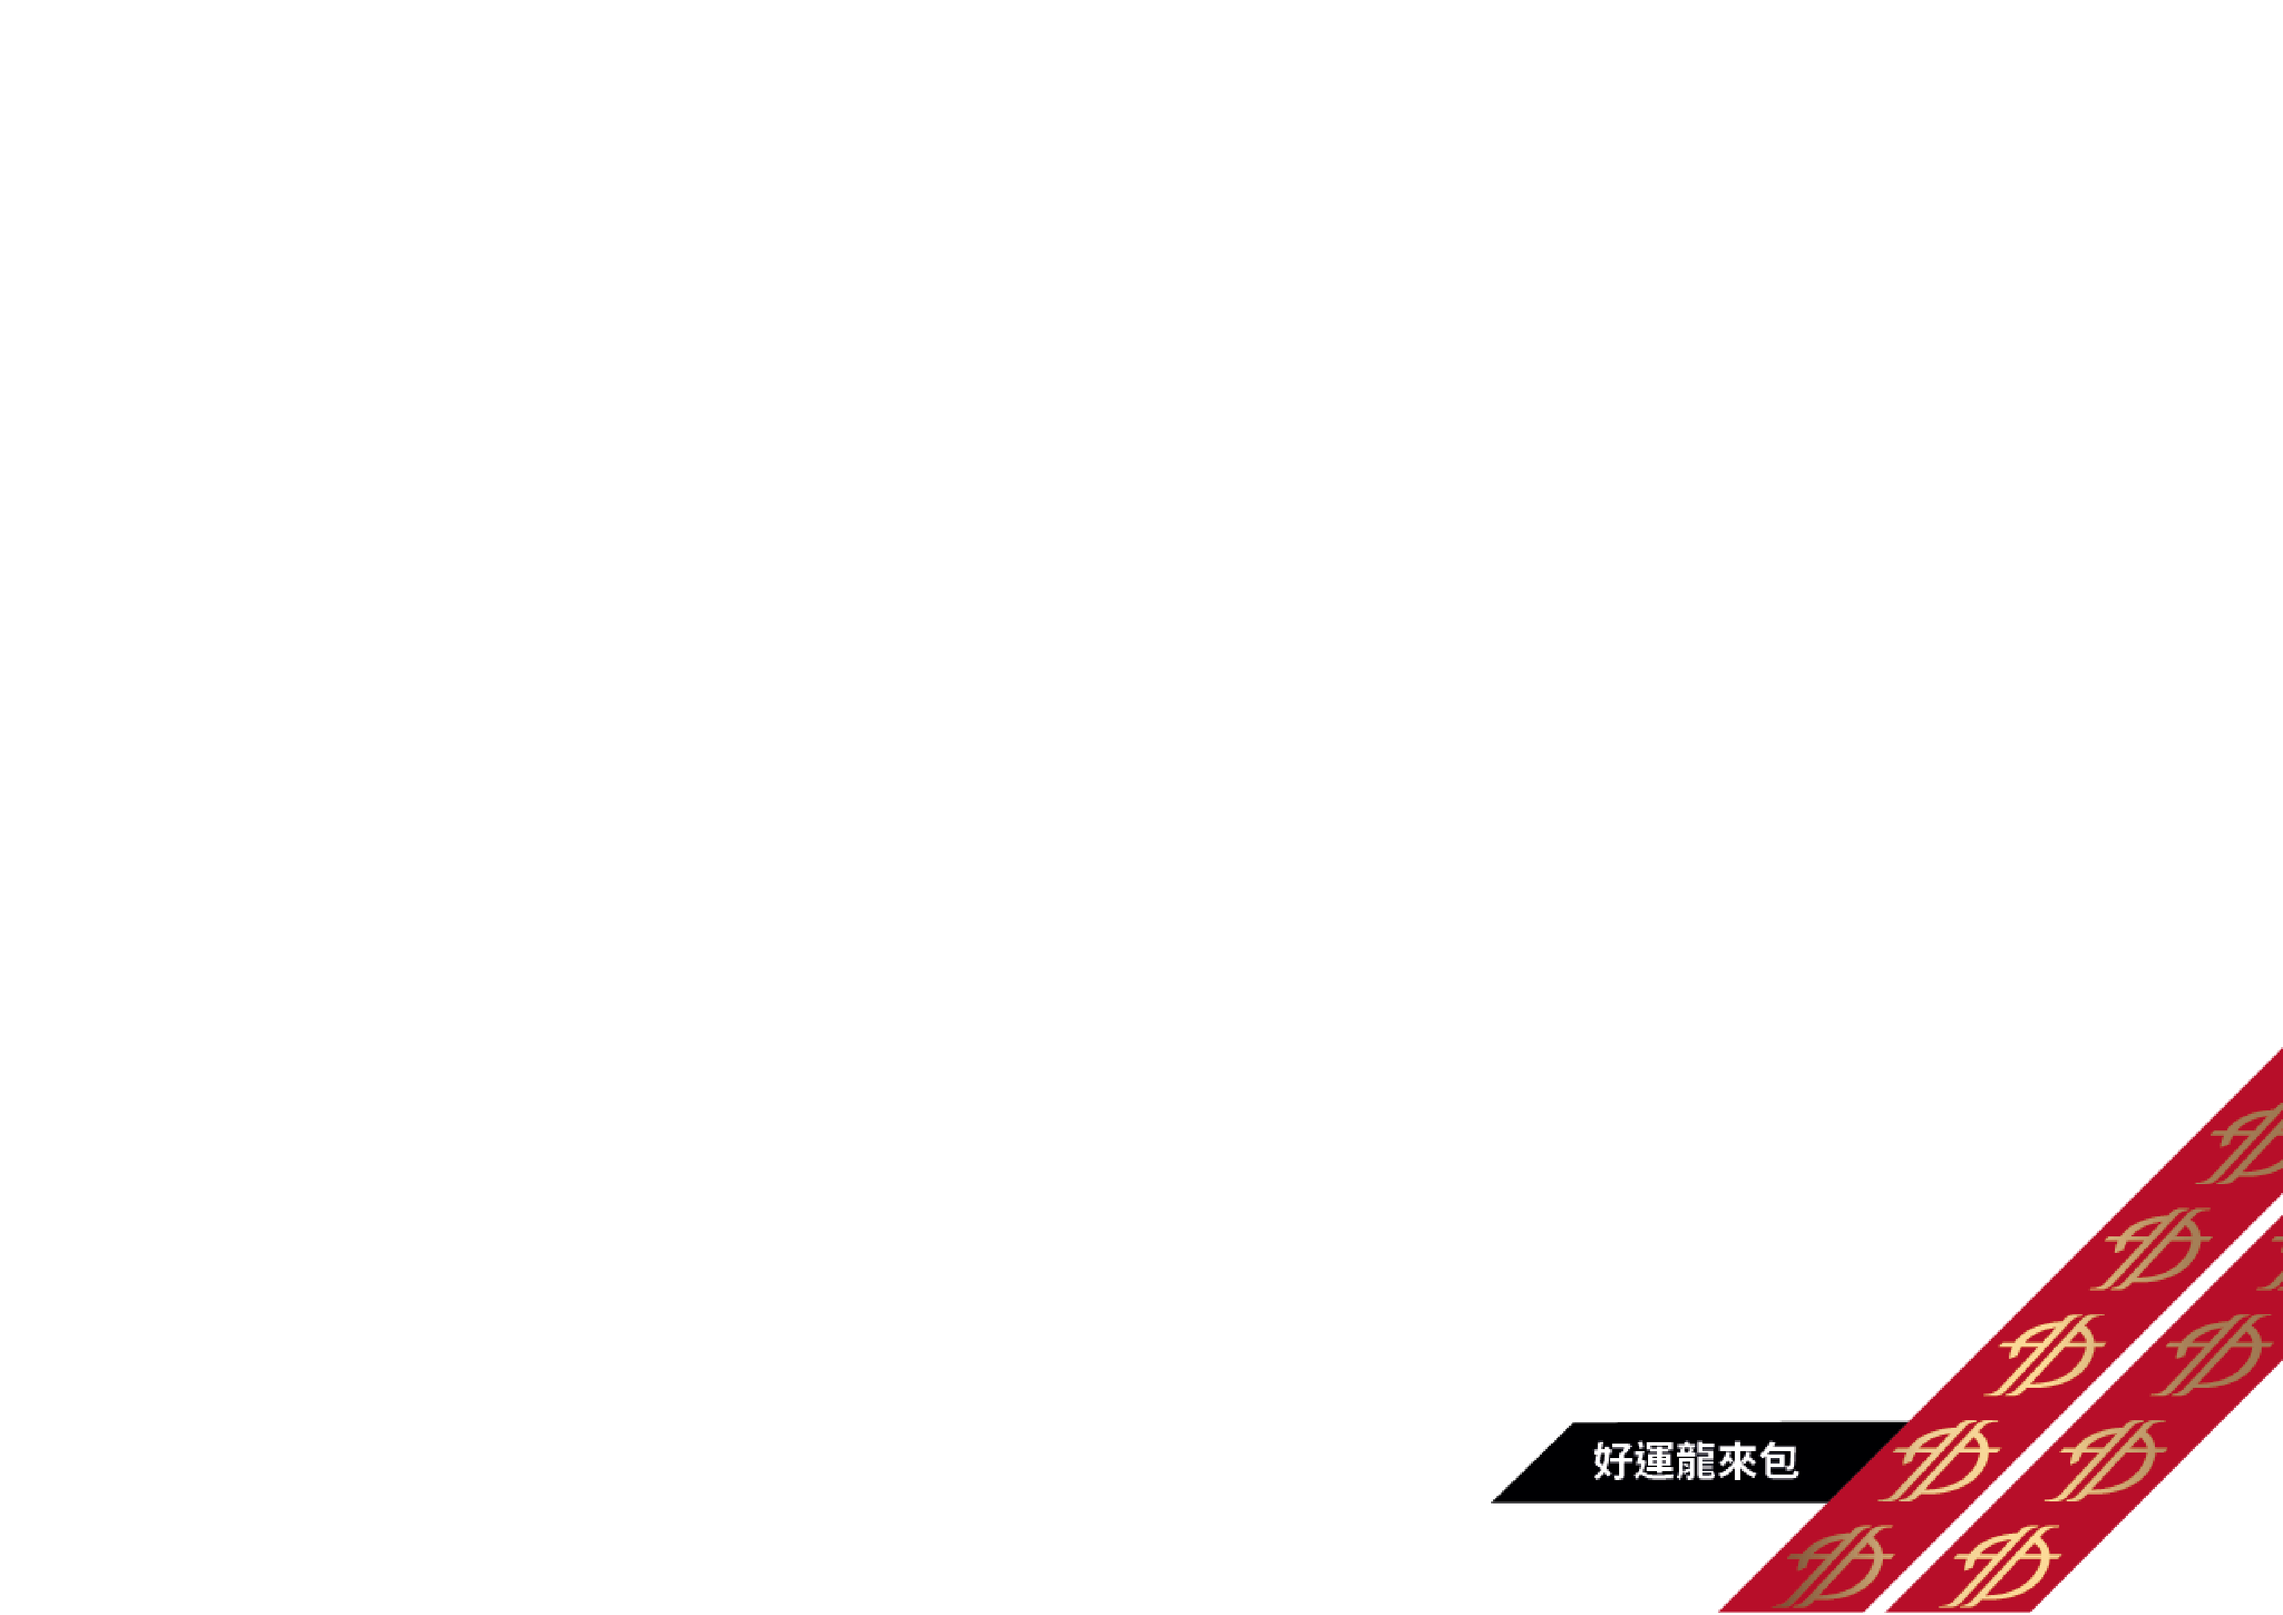
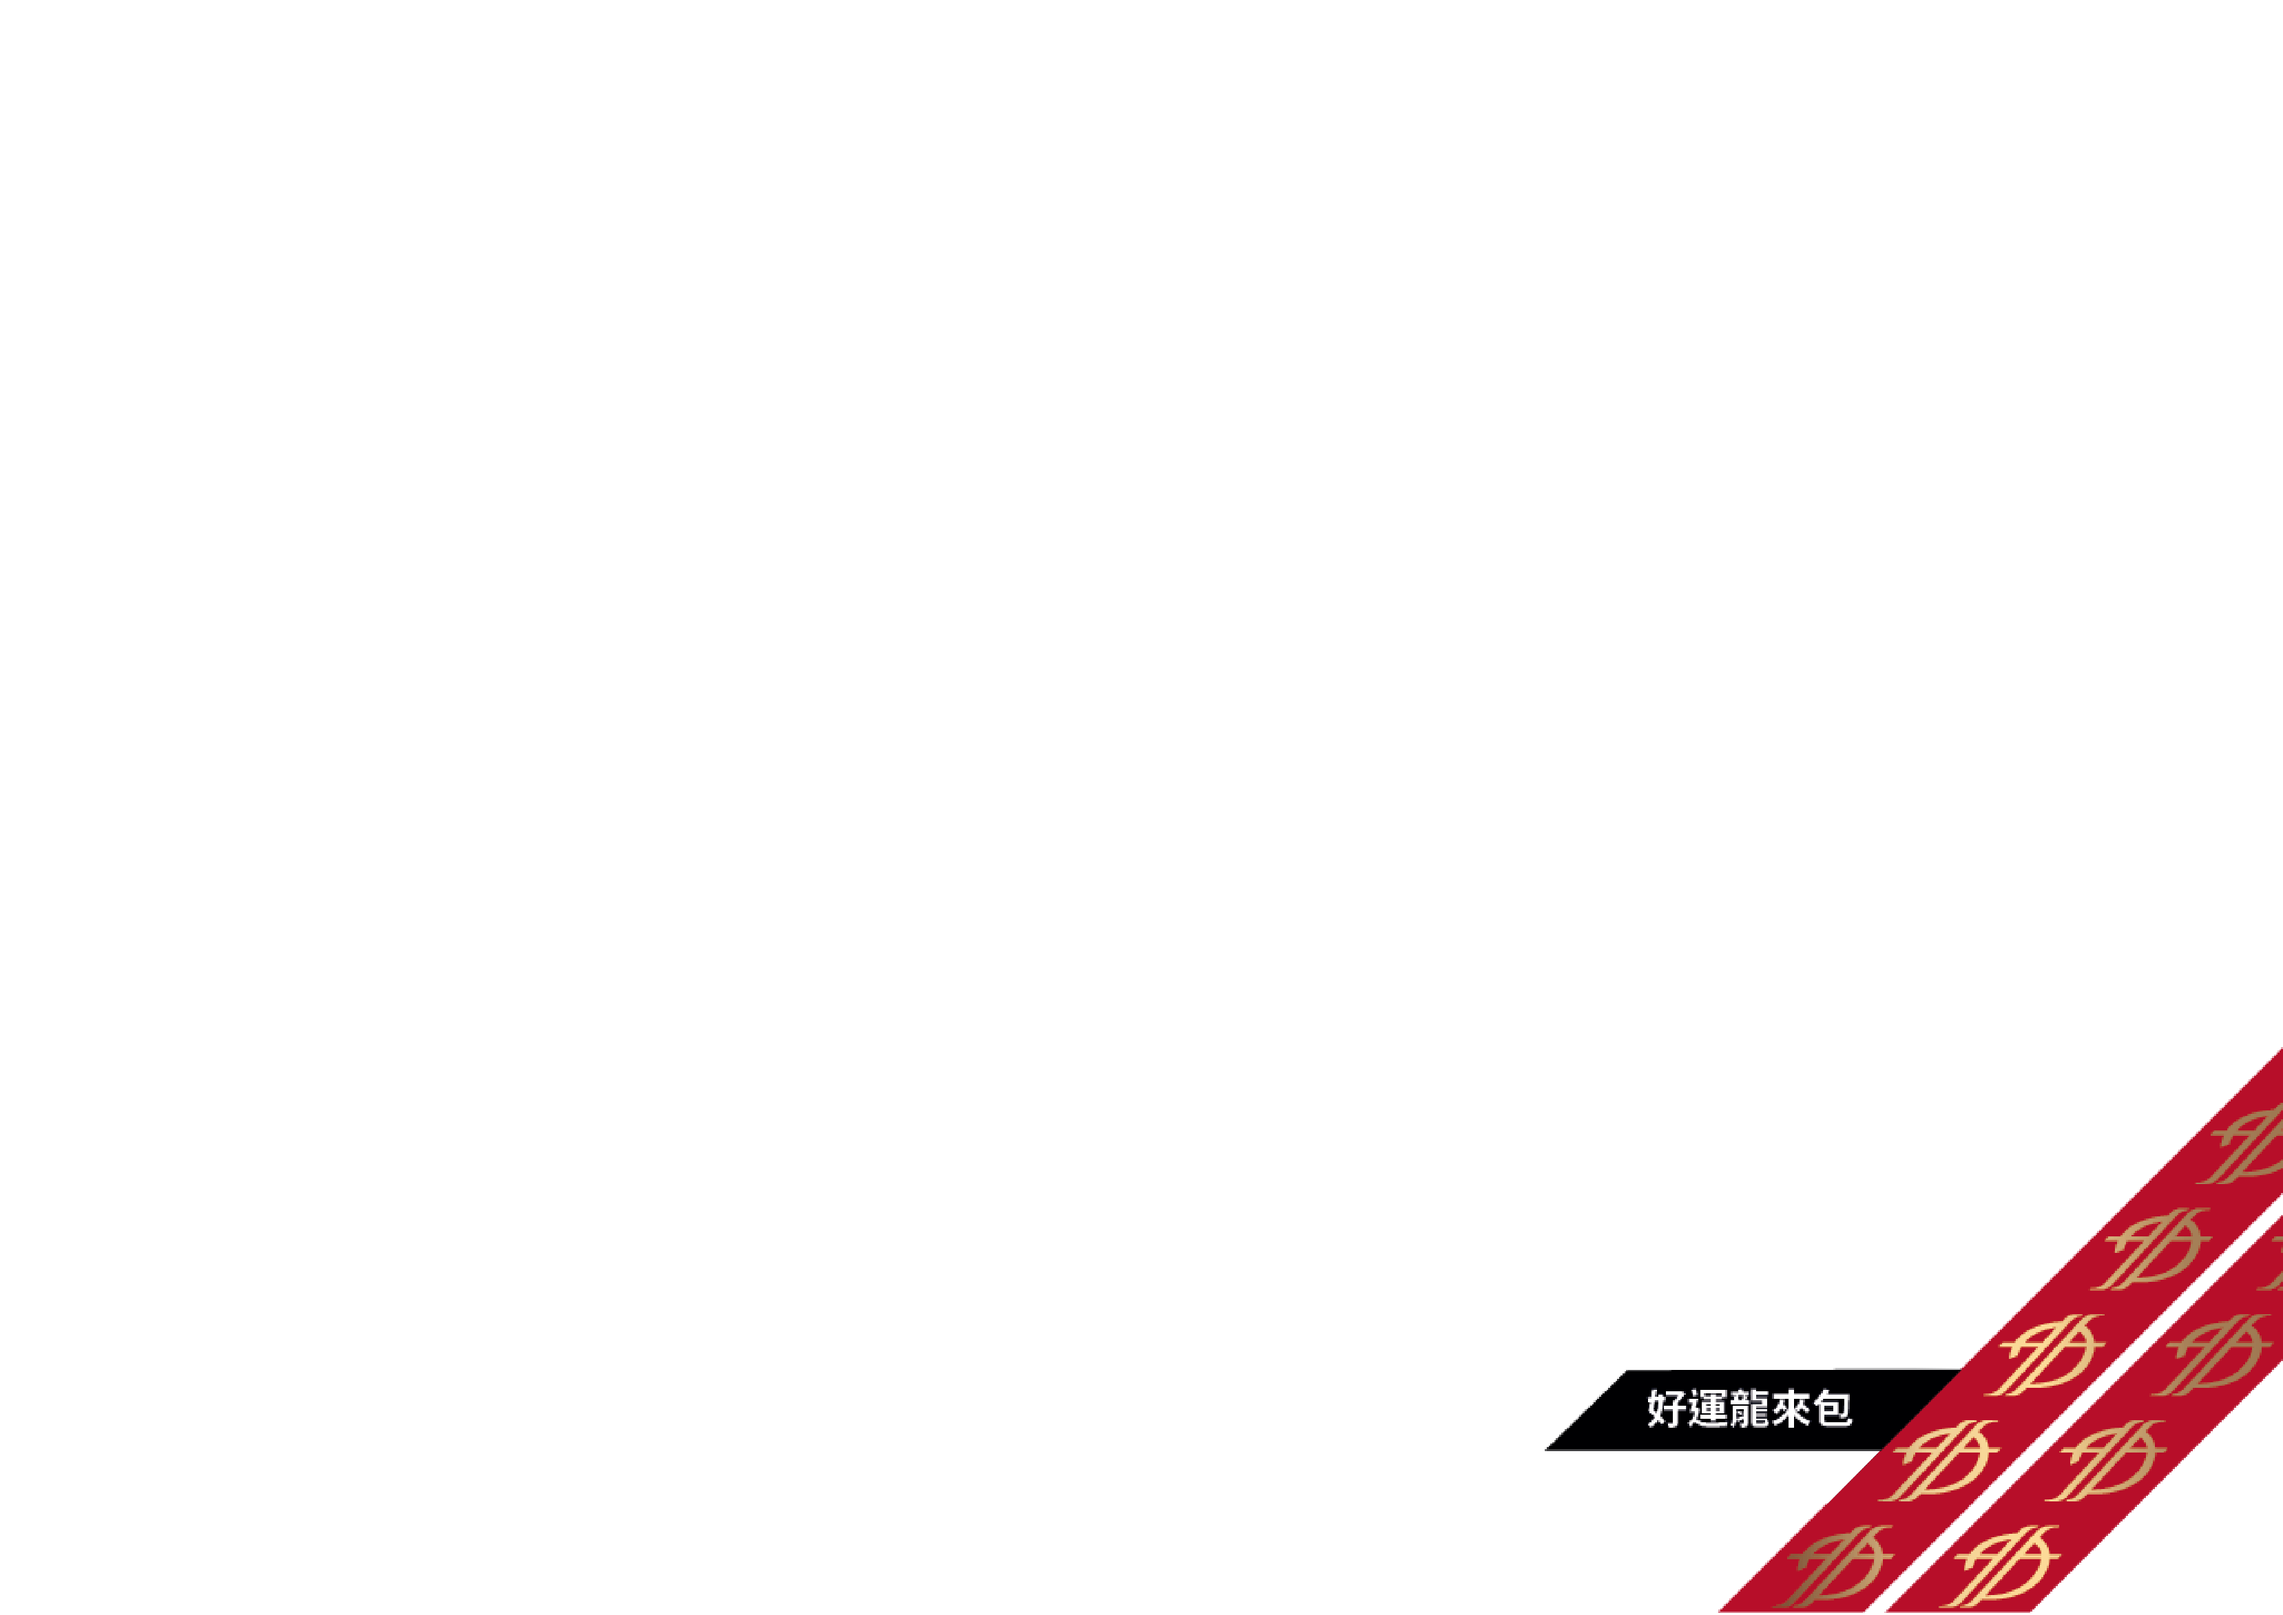
[modify] image change

Changed region(s): [[0.6525, 0.8402, 0.87, 0.9335]]

diff --git a/docs/sw.js b/docs/sw.js
@@ -1,1 +1,1 @@
-if(!self.define){let e,i={};const s=(s,a)=>(s=new URL(s+".js",a).href,i[s]||new Promise((i=>{if("document"in self){const e=document.createElement("script");e.src=s,e.onload=i,document.head.appendChild(e)}else e=s,importScripts(s),i()})).then((()=>{let e=i[s];if(!e)throw new Error(`Module ${s} didn’t register its module`);return e})));self.define=(a,n)=>{const c=e||("document"in self?document.currentScript.src:"")||location.href;if(i[c])return;let r={};const d=e=>s(e,c),o={module:{uri:c},exports:r,require:d};i[c]=Promise.all(a.map((e=>o[e]||d(e)))).then((e=>(n(...e),r)))}}define(["./workbox-fa446783"],(function(e){"use strict";self.skipWaiting(),e.clientsClaim(),e.precacheAndRoute([{url:"assets/index-d58fc353.css",revision:null},{url:"assets/index-d8b9e818.js",revision:null},{url:"index.html",revision:"6c3b351a77d9c6fe3616544a56442352"},{url:"registerSW.js",revision:"1872c500de691dce40960bb85481de07"},{url:"audio-speaker-off.png",revision:"e46a88ab8493f86764cbe64dd250adf5"},{url:"audio-speaker-on.png",revision:"0f68480c86cd9569a7bd660ea0b1abb1"},{url:"bg.mp3",revision:"1939fe9c9d71e53d960f581d068bd9ed"},{url:"pwa-logo.png",revision:"ecc5baf4ff30ede170fc950900658b74"},{url:"img/icons/android-chrome-192x192.png",revision:"3ef4a95391ff2bfd5f442ea89292b3fa"},{url:"img/icons/android-chrome-512x512.png",revision:"4fd10861636b509a53d091e1c6cd8f64"},{url:"img/icons/android-chrome-maskable-192x192.png",revision:"3ef4a95391ff2bfd5f442ea89292b3fa"},{url:"img/icons/android-chrome-maskable-512x512.png",revision:"4fd10861636b509a53d091e1c6cd8f64"},{url:"img/icons/apple-touch-icon-120x120.png",revision:"c24de0bfa43e42fd8568d1b38262c4c3"},{url:"img/icons/apple-touch-icon-152x152.png",revision:"de8e6c5c1e047c79711200a9529be00e"},{url:"img/icons/apple-touch-icon-180x180.png",revision:"f66b5015d880335cb607d474025316e8"},{url:"img/icons/apple-touch-icon-60x60.png",revision:"91035985e360cd3b9e443066bccdc53a"},{url:"img/icons/apple-touch-icon-76x76.png",revision:"c14d8293625bbec500e0e9dec5848336"},{url:"img/icons/apple-touch-icon.png",revision:"f66b5015d880335cb607d474025316e8"},{url:"img/icons/favicon-16x16.png",revision:"49610a9d0e3026ebfaec1aa32f22b67f"},{url:"img/icons/favicon-32x32.png",revision:"e3c7c3355821030a05ac1e54e105e973"},{url:"img/icons/msapplication-icon-144x144.png",revision:"4db12ddb2969ae559fe8cc63810e7747"},{url:"img/icons/mstile-150x150.png",revision:"8bf70c634505b233c8b293cf3a749278"},{url:"img/icons/safari-pinned-tab.svg",revision:"86b564b18ea6c7e170fa6cb87ca03bcf"},{url:"assets/img/12_14_finished.png",revision:"4fa3be04f2ef9fd346e10b693486beb4"},{url:"assets/img/ball_light.png",revision:"318ced0bcbdcb54ae0b6b6e7d6fbd11c"},{url:"assets/img/black_bg.png",revision:"2c019e9e6bccf9f989349f8b4902df4d"},{url:"assets/img/charm.png",revision:"291697df1759d9147905542a96682f9f"},{url:"assets/img/charm_bg.png",revision:"8cbacc76583d1c30f68951fdd04853a2"},{url:"assets/img/charm_shadow.png",revision:"86b80104720873d004d1647e19a723f3"},{url:"assets/img/dragon_right_big.png",revision:"b00c0880edc5c3e8a096498300872744"},{url:"assets/img/dragon_right_small.png",revision:"377f2d2133d2222ca1dd89c3cfa2467d"},{url:"assets/img/final_bg.png",revision:"ab5476baea71c368e4ec9de249ab1716"},{url:"assets/img/final_bg_belt.png",revision:"86719737aaca2f1a20e1e9bef68a3c33"},{url:"assets/img/final_bg_red_belt.png",revision:"b7f31afada1dadb7ab8eec7460bea00c"},{url:"assets/img/game_ball.png",revision:"deae6db0f7233ab3299a7c1adbca2372"},{url:"assets/img/game_ball_cloud.png",revision:"5c66e37a987089a9a03389eccf4bf39a"},{url:"assets/img/game_ball_infinite.png",revision:"614fcf8c71d3c3f0af983a627f8ac3fb"},{url:"assets/img/game_ball_shadow.png",revision:"b17948b75895a592e0e9c6365beca9c1"},{url:"assets/img/game_ball_star.png",revision:"adc6fa1f181f27739f247749d7174809"},{url:"assets/img/game_ball_wind.png",revision:"cc1724b3a3a0015b55884a11a5a0156b"},{url:"assets/img/game_bg.png",revision:"e5651be7be6820df0605790cf595f73d"},{url:"assets/img/game_cloud.png",revision:"d6363963899f2509a481db6c618b9ad4"},{url:"assets/img/game_count_down_1.png",revision:"31098b173c8566c6f7ace91eb4a9d05f"},{url:"assets/img/game_count_down_2.png",revision:"4fd6d3c6a62e7bfd9ae5c13058d5c640"},{url:"assets/img/game_count_down_3.png",revision:"f5cea6cd0ee93bd623e5185a77307eda"},{url:"assets/img/game_frame.png",revision:"dad05a41c3fcc42b4b9e1b7bc3909c04"},{url:"assets/img/game_header.png",revision:"76d65fadb6c3f93e7b6e2eaf1d12d68f"},{url:"assets/img/game_intro_bg.png",revision:"1cc102c7f1f418e3e3d1d65a71c6ade2"},{url:"assets/img/game_intro_subtitle.png",revision:"6b560dfd3a5266df3499d2bb69aac70f"},{url:"assets/img/game_intro_title.png",revision:"29636e169d8d7ab4561659840b557202"},{url:"assets/img/ground.png",revision:"beb0f896eaa8070143dcbf9684b046b0"},{url:"assets/img/index_title.png",revision:"bca7a3aeeaa002b2d9682c055e11e38c"},{url:"assets/img/intro_2_main.png",revision:"2916ed2cbe0614b261e6b2621affdf7f"},{url:"assets/img/intro_2_title.png",revision:"e5a29516eb7efd52bb9f2b3145807ed2"},{url:"assets/img/left_down_cloud.png",revision:"693b50022bf2beb8ea777a82b31b6114"},{url:"assets/img/logo.png",revision:"5ea8c0e167ad97e21d6dd32295f53a2a"},{url:"assets/img/logo_left_top.png",revision:"e1187098103a02edc57d259fb8c07bc9"},{url:"assets/img/main_product_full.png",revision:"07df5fb70d0a49e47ba2f67046c6562f"},{url:"assets/img/previous.png",revision:"59b3f8b0fc90b25f11c6eb26352e2d01"},{url:"assets/img/right_belt_slogan.png",revision:"c9aee68f23cc2031df39baa7293498fe"},{url:"assets/img/right_down_belt_without_slogan.png",revision:"671d6e8273c87bb5aaa11d5bde98492c"},{url:"assets/img/right_top_play_button.png",revision:"493edcbe3e0985411714da0499332b59"},{url:"assets/img/right_top_reload_button.png",revision:"9469f2e354bd4ed35dbce31801d3f9c2"},{url:"assets/img/side_dragon.png",revision:"61c84c9489e15111226ee629c50245c9"},{url:"assets/img/wave_ground.png",revision:"2e6c8f7ec31b53c681ae5e4fb721f08f"},{url:"assets/img/woman.png",revision:"251929e1491c3b4e45d4fa2d2de9072b"},{url:"assets/img/yellow_bg.png",revision:"9aee5a12e6b5cdd2dacf847ac39b736f"},{url:"manifest.webmanifest",revision:"a44d6e44fe1492ab92195f4ccfee018f"}],{}),e.cleanupOutdatedCaches(),e.registerRoute(new e.NavigationRoute(e.createHandlerBoundToURL("index.html")))}));
+if(!self.define){let e,i={};const s=(s,a)=>(s=new URL(s+".js",a).href,i[s]||new Promise((i=>{if("document"in self){const e=document.createElement("script");e.src=s,e.onload=i,document.head.appendChild(e)}else e=s,importScripts(s),i()})).then((()=>{let e=i[s];if(!e)throw new Error(`Module ${s} didn’t register its module`);return e})));self.define=(a,n)=>{const c=e||("document"in self?document.currentScript.src:"")||location.href;if(i[c])return;let r={};const d=e=>s(e,c),o={module:{uri:c},exports:r,require:d};i[c]=Promise.all(a.map((e=>o[e]||d(e)))).then((e=>(n(...e),r)))}}define(["./workbox-fa446783"],(function(e){"use strict";self.skipWaiting(),e.clientsClaim(),e.precacheAndRoute([{url:"assets/index-d58fc353.css",revision:null},{url:"assets/index-d8b9e818.js",revision:null},{url:"index.html",revision:"6c3b351a77d9c6fe3616544a56442352"},{url:"registerSW.js",revision:"1872c500de691dce40960bb85481de07"},{url:"audio-speaker-off.png",revision:"e46a88ab8493f86764cbe64dd250adf5"},{url:"audio-speaker-on.png",revision:"0f68480c86cd9569a7bd660ea0b1abb1"},{url:"bg.mp3",revision:"1939fe9c9d71e53d960f581d068bd9ed"},{url:"pwa-logo.png",revision:"ecc5baf4ff30ede170fc950900658b74"},{url:"assets/img/12_14_finished.png",revision:"4fa3be04f2ef9fd346e10b693486beb4"},{url:"assets/img/ball_light.png",revision:"318ced0bcbdcb54ae0b6b6e7d6fbd11c"},{url:"assets/img/black_bg.png",revision:"2c019e9e6bccf9f989349f8b4902df4d"},{url:"assets/img/charm.png",revision:"291697df1759d9147905542a96682f9f"},{url:"assets/img/charm_bg.png",revision:"8cbacc76583d1c30f68951fdd04853a2"},{url:"assets/img/charm_shadow.png",revision:"86b80104720873d004d1647e19a723f3"},{url:"assets/img/dragon_right_big.png",revision:"b00c0880edc5c3e8a096498300872744"},{url:"assets/img/dragon_right_small.png",revision:"377f2d2133d2222ca1dd89c3cfa2467d"},{url:"assets/img/final_bg.png",revision:"ab5476baea71c368e4ec9de249ab1716"},{url:"assets/img/final_bg_belt.png",revision:"86719737aaca2f1a20e1e9bef68a3c33"},{url:"assets/img/final_bg_red_belt.png",revision:"b7f31afada1dadb7ab8eec7460bea00c"},{url:"assets/img/game_ball.png",revision:"deae6db0f7233ab3299a7c1adbca2372"},{url:"assets/img/game_ball_cloud.png",revision:"5c66e37a987089a9a03389eccf4bf39a"},{url:"assets/img/game_ball_infinite.png",revision:"614fcf8c71d3c3f0af983a627f8ac3fb"},{url:"assets/img/game_ball_shadow.png",revision:"b17948b75895a592e0e9c6365beca9c1"},{url:"assets/img/game_ball_star.png",revision:"adc6fa1f181f27739f247749d7174809"},{url:"assets/img/game_ball_wind.png",revision:"cc1724b3a3a0015b55884a11a5a0156b"},{url:"assets/img/game_bg.png",revision:"e5651be7be6820df0605790cf595f73d"},{url:"assets/img/game_cloud.png",revision:"d6363963899f2509a481db6c618b9ad4"},{url:"assets/img/game_count_down_1.png",revision:"31098b173c8566c6f7ace91eb4a9d05f"},{url:"assets/img/game_count_down_2.png",revision:"4fd6d3c6a62e7bfd9ae5c13058d5c640"},{url:"assets/img/game_count_down_3.png",revision:"f5cea6cd0ee93bd623e5185a77307eda"},{url:"assets/img/game_frame.png",revision:"dad05a41c3fcc42b4b9e1b7bc3909c04"},{url:"assets/img/game_header.png",revision:"76d65fadb6c3f93e7b6e2eaf1d12d68f"},{url:"assets/img/game_intro_bg.png",revision:"1cc102c7f1f418e3e3d1d65a71c6ade2"},{url:"assets/img/game_intro_subtitle.png",revision:"6b560dfd3a5266df3499d2bb69aac70f"},{url:"assets/img/game_intro_title.png",revision:"29636e169d8d7ab4561659840b557202"},{url:"assets/img/ground.png",revision:"beb0f896eaa8070143dcbf9684b046b0"},{url:"assets/img/index_title.png",revision:"bca7a3aeeaa002b2d9682c055e11e38c"},{url:"assets/img/intro_2_main.png",revision:"2916ed2cbe0614b261e6b2621affdf7f"},{url:"assets/img/intro_2_title.png",revision:"e5a29516eb7efd52bb9f2b3145807ed2"},{url:"assets/img/left_down_cloud.png",revision:"693b50022bf2beb8ea777a82b31b6114"},{url:"assets/img/logo.png",revision:"5ea8c0e167ad97e21d6dd32295f53a2a"},{url:"assets/img/logo_left_top.png",revision:"e1187098103a02edc57d259fb8c07bc9"},{url:"assets/img/main_product_full.png",revision:"07df5fb70d0a49e47ba2f67046c6562f"},{url:"assets/img/previous.png",revision:"59b3f8b0fc90b25f11c6eb26352e2d01"},{url:"assets/img/right_belt_slogan.png",revision:"2d1e48b0e549aeaed944f59c11dac17f"},{url:"assets/img/right_down_belt_without_slogan.png",revision:"671d6e8273c87bb5aaa11d5bde98492c"},{url:"assets/img/right_top_play_button.png",revision:"493edcbe3e0985411714da0499332b59"},{url:"assets/img/right_top_reload_button.png",revision:"9469f2e354bd4ed35dbce31801d3f9c2"},{url:"assets/img/side_dragon.png",revision:"61c84c9489e15111226ee629c50245c9"},{url:"assets/img/wave_ground.png",revision:"2e6c8f7ec31b53c681ae5e4fb721f08f"},{url:"assets/img/woman.png",revision:"251929e1491c3b4e45d4fa2d2de9072b"},{url:"assets/img/yellow_bg.png",revision:"9aee5a12e6b5cdd2dacf847ac39b736f"},{url:"img/icons/android-chrome-192x192.png",revision:"3ef4a95391ff2bfd5f442ea89292b3fa"},{url:"img/icons/android-chrome-512x512.png",revision:"4fd10861636b509a53d091e1c6cd8f64"},{url:"img/icons/android-chrome-maskable-192x192.png",revision:"3ef4a95391ff2bfd5f442ea89292b3fa"},{url:"img/icons/android-chrome-maskable-512x512.png",revision:"4fd10861636b509a53d091e1c6cd8f64"},{url:"img/icons/apple-touch-icon-120x120.png",revision:"c24de0bfa43e42fd8568d1b38262c4c3"},{url:"img/icons/apple-touch-icon-152x152.png",revision:"de8e6c5c1e047c79711200a9529be00e"},{url:"img/icons/apple-touch-icon-180x180.png",revision:"f66b5015d880335cb607d474025316e8"},{url:"img/icons/apple-touch-icon-60x60.png",revision:"91035985e360cd3b9e443066bccdc53a"},{url:"img/icons/apple-touch-icon-76x76.png",revision:"c14d8293625bbec500e0e9dec5848336"},{url:"img/icons/apple-touch-icon.png",revision:"f66b5015d880335cb607d474025316e8"},{url:"img/icons/favicon-16x16.png",revision:"49610a9d0e3026ebfaec1aa32f22b67f"},{url:"img/icons/favicon-32x32.png",revision:"e3c7c3355821030a05ac1e54e105e973"},{url:"img/icons/msapplication-icon-144x144.png",revision:"4db12ddb2969ae559fe8cc63810e7747"},{url:"img/icons/mstile-150x150.png",revision:"8bf70c634505b233c8b293cf3a749278"},{url:"img/icons/safari-pinned-tab.svg",revision:"86b564b18ea6c7e170fa6cb87ca03bcf"},{url:"manifest.webmanifest",revision:"a44d6e44fe1492ab92195f4ccfee018f"}],{}),e.cleanupOutdatedCaches(),e.registerRoute(new e.NavigationRoute(e.createHandlerBoundToURL("index.html")))}));
